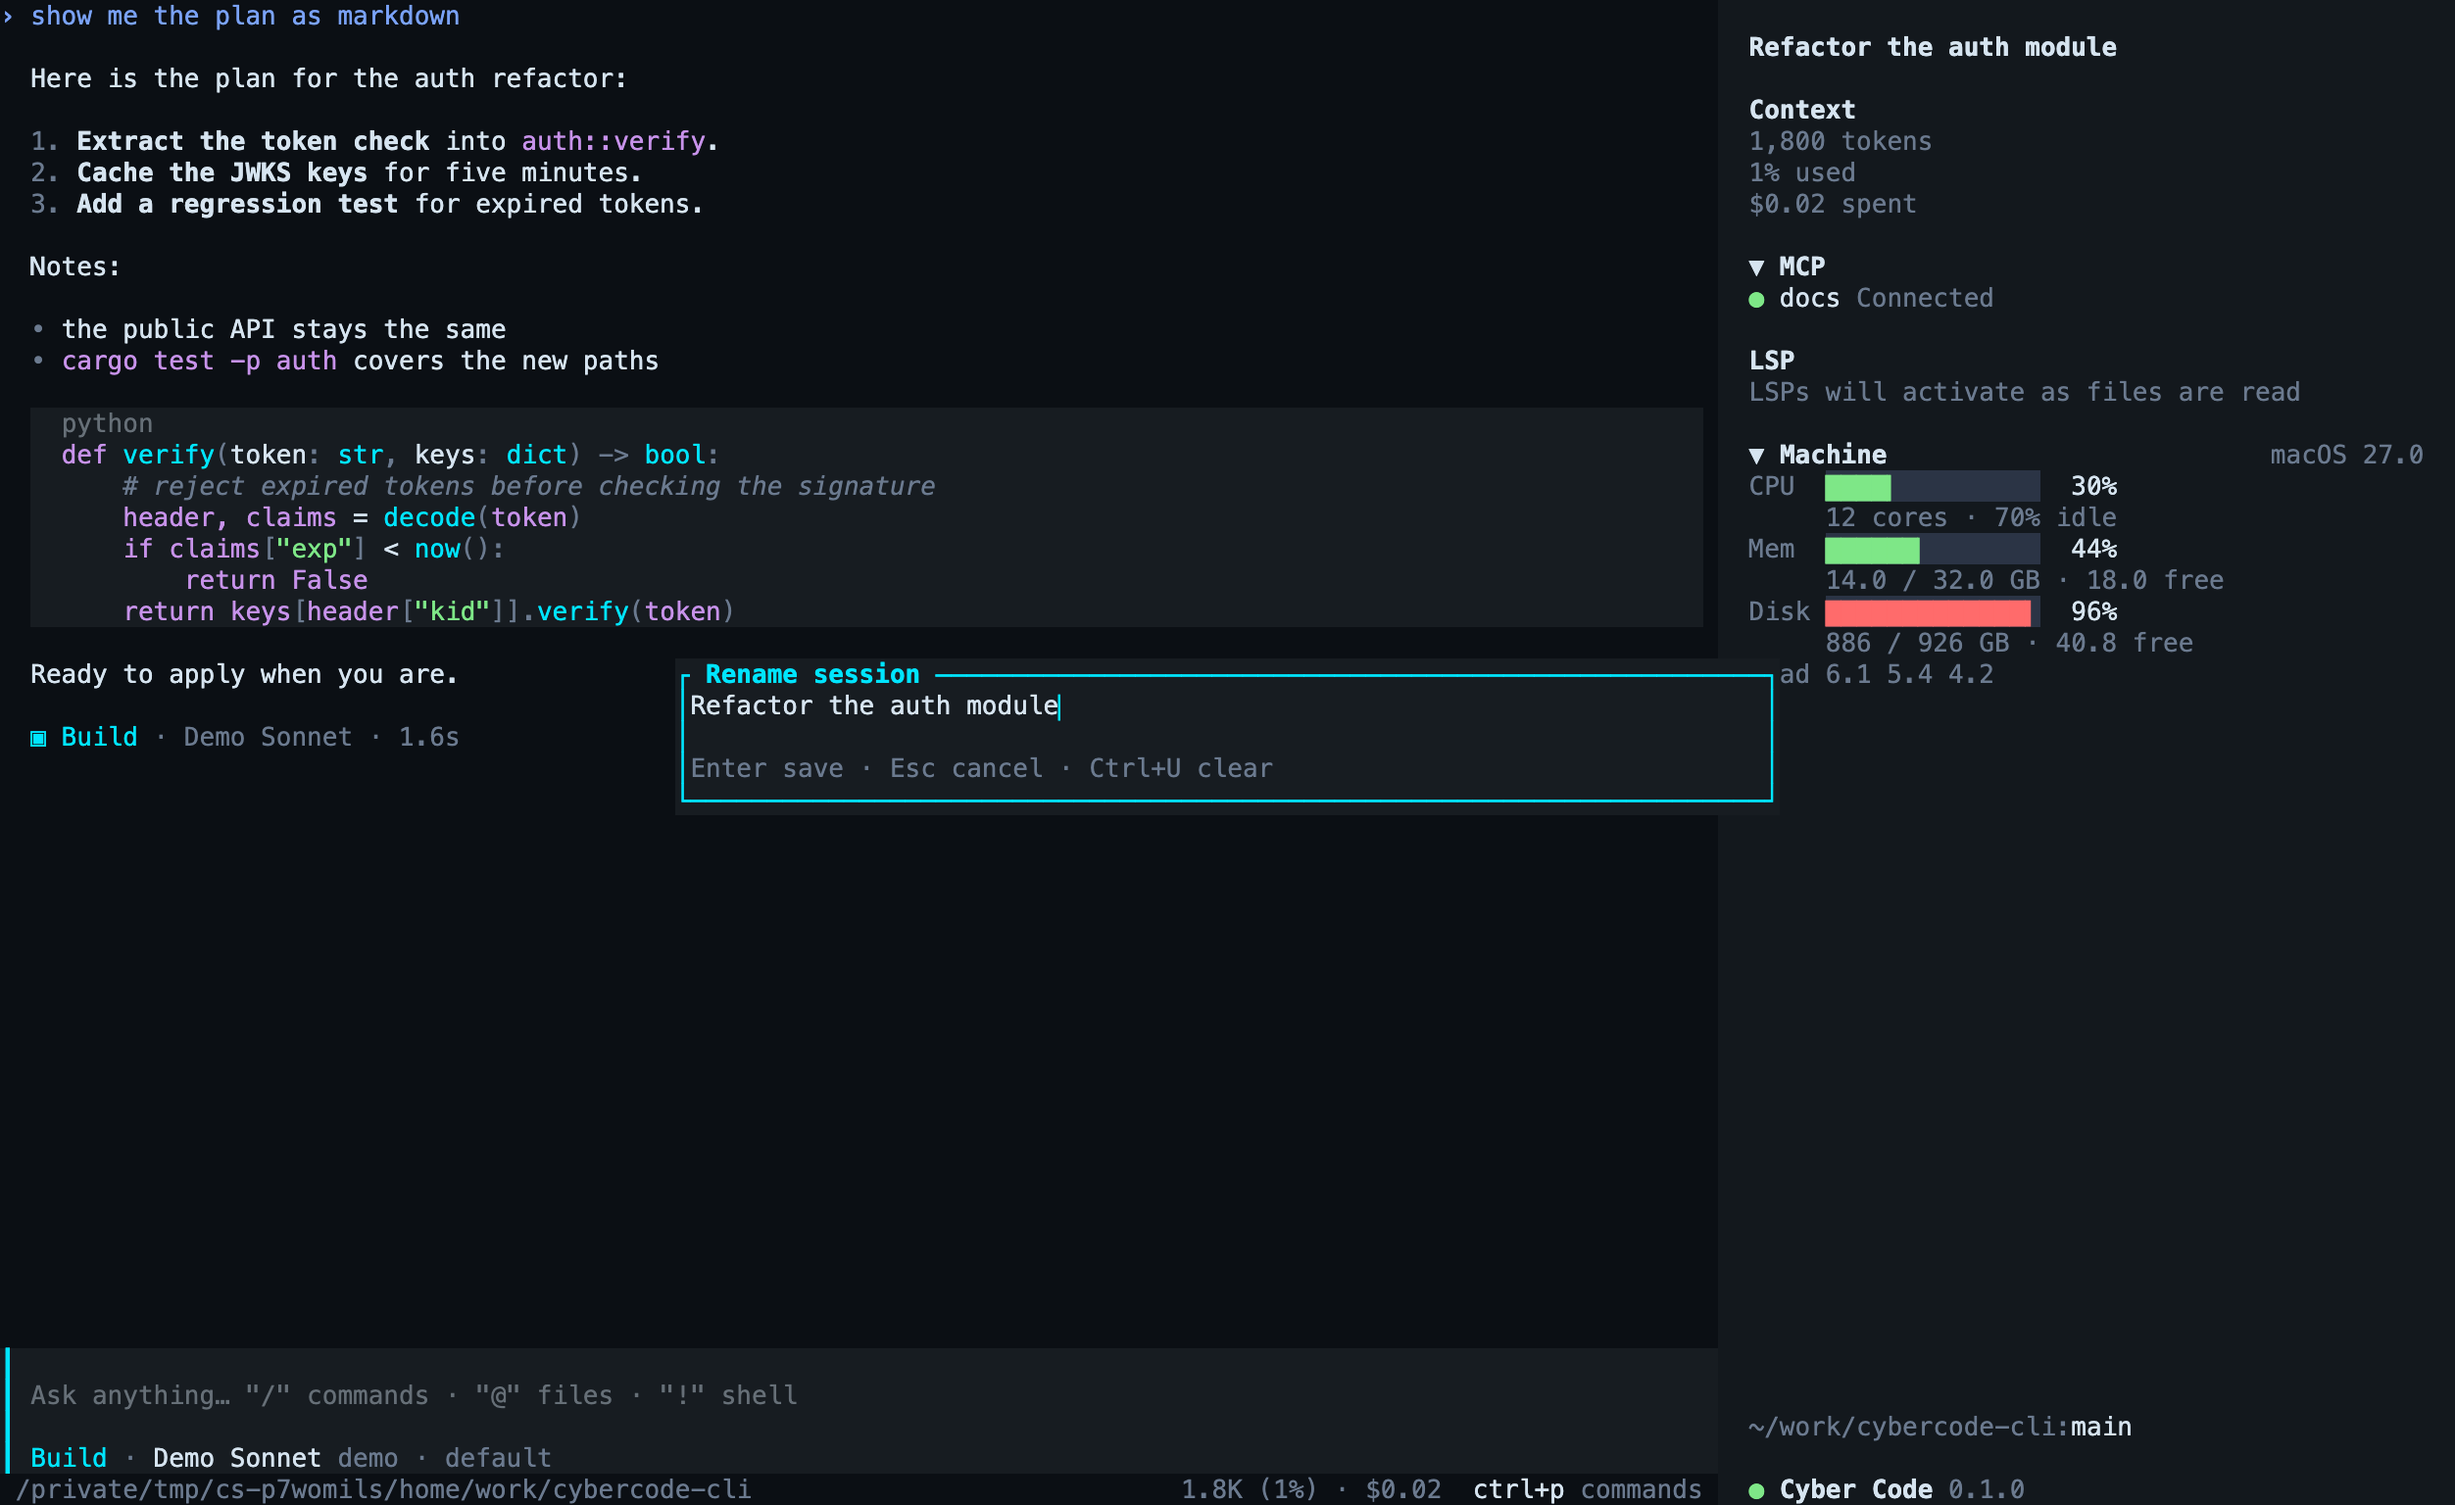
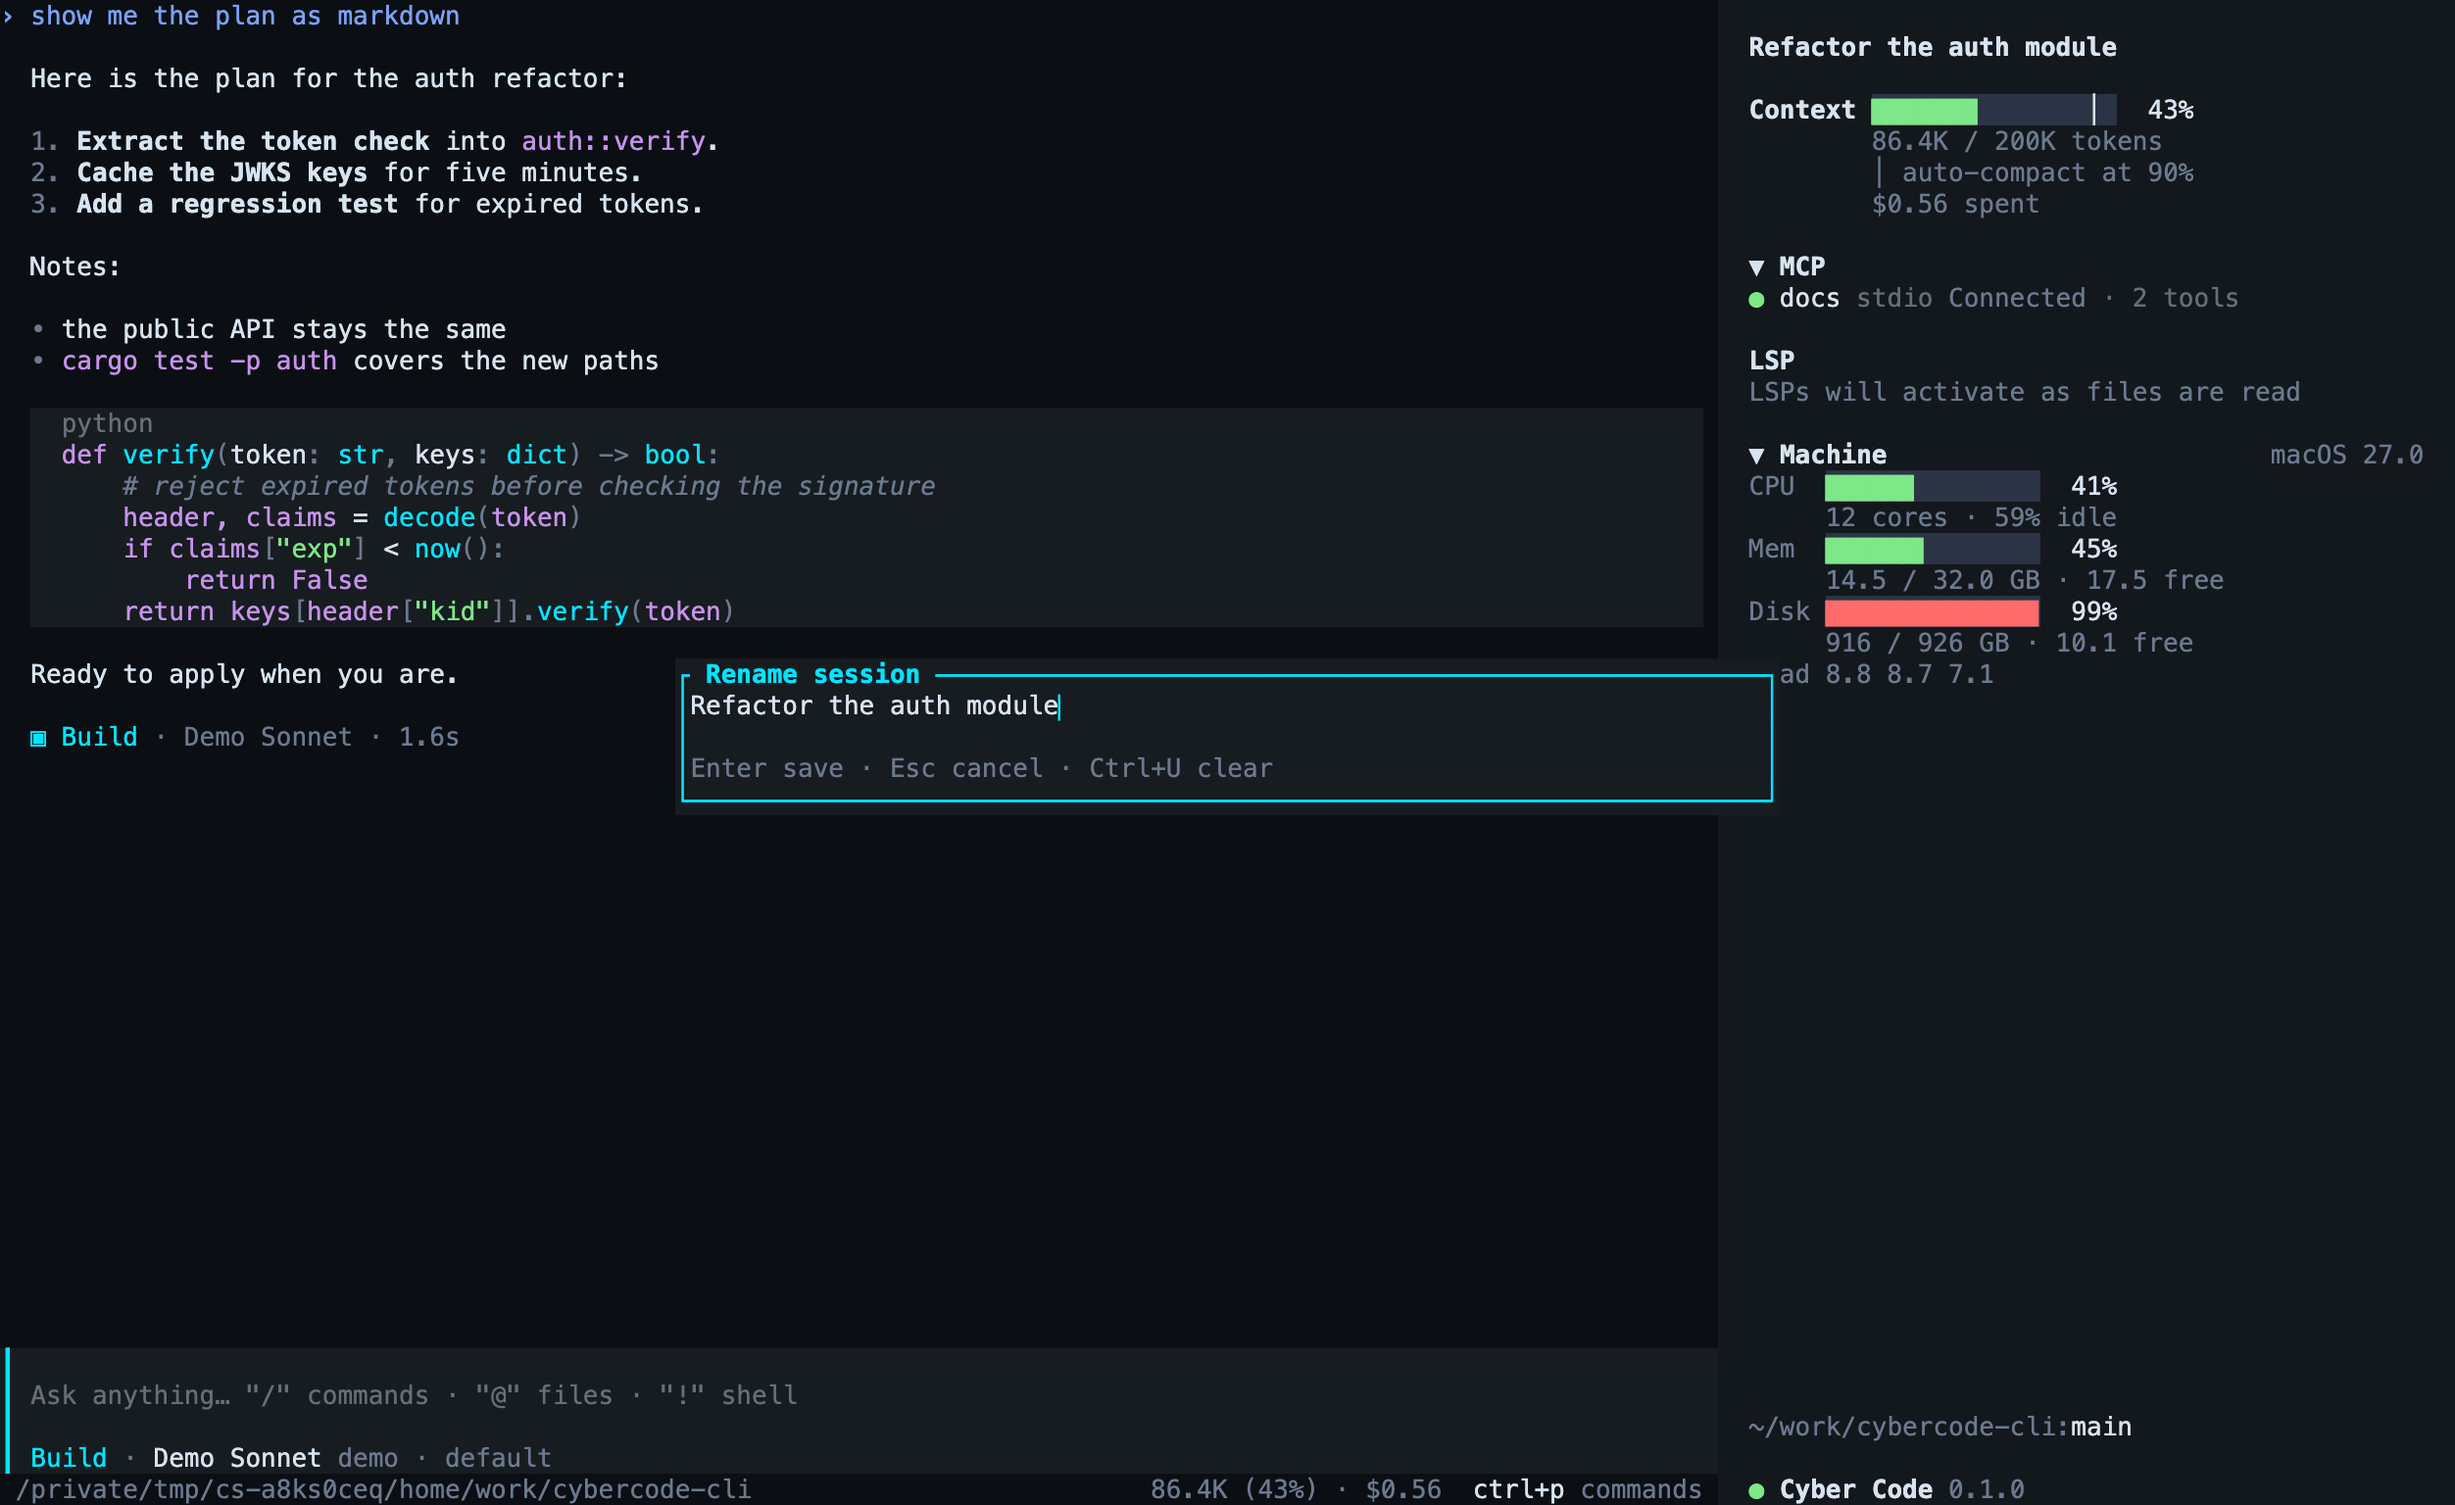
Refresh README screenshots with the sidebar context bar
The scripted provider now reports 86.4K prompt tokens per reply, so the
context bar shows a realistic 43% of the demo model's 200K window. The
capture script runs slash commands through a helper that presses enter
until the command leaves the composer, since the first enter can only
accept the completion.

diff --git a/scripts/capture_tui_screens.py b/scripts/capture_tui_screens.py
@@ -214,6 +214,17 @@ def wait(what, check, timeout=40, step=0.2, tui=None):
     raise TimeoutError(what)
 
 
+def command(tui, name, wait=1.2):
+    """Run a slash command. The first enter may only accept the completion, so press it until
+    the command leaves the composer."""
+    tui.type(name, 0.8)
+    for _ in range(3):
+        tui.key("enter", wait)
+        if name not in "\n".join(tui.text().splitlines()[-6:]):
+            return
+    raise TimeoutError(f"{name} did not run:\n{tui.text()}")
+
+
 def fanout(name, tag, n):
     return (f"export const meta = {{ name: '{name}', description: 'Fan out {n} agents', "
             f"phases: [{{ title: 'Fan out' }}, {{ title: 'Collect' }}] }};\n"
@@ -258,8 +269,8 @@ def capture(env):
     tui.pump(1.5)
     env.shot(tui, "transcript-sidebar.png")
 
-    tui.type("/rename")
-    tui.key("enter", 1.2)
+    command(tui, "/rename")
+    tui.wait_for("Rename session", 10)
     env.shot(tui, "rename.png")
     tui.key("esc", 0.8)
 
@@ -273,14 +284,12 @@ def capture(env):
     tui.wait_for("Result TURN", 20)
     tui.pump(1)
 
-    tui.type("/theme")
-    tui.key("enter", 1.2)
+    command(tui, "/theme")
     tui.type("synthwave", 1.5)
     env.shot(tui, "themes.png")
     tui.key("esc", 1.0)
 
-    tui.type("/files")
-    tui.key("enter", 2.0)
+    command(tui, "/files", 2.0)
     tui.wait_for("docs/", 20)
     lines = tui.text().splitlines()
     first = next(i for i, l in enumerate(lines) if "crates/" in l)
@@ -297,8 +306,7 @@ def capture(env):
     tui.key("esc", 0.8)
     tui.key("esc", 0.8)
 
-    tui.type("/settings")
-    tui.key("enter", 2.0)
+    command(tui, "/settings", 2.0)
     tui.key("3", 2.0)
     env.shot(tui, "usage.png")
     tui.key("4", 2.5)
@@ -316,8 +324,7 @@ def capture(env):
     for prefix in ("S-0", "A-0", "A-1"):
         env.ctl("/ctl/release", {"tag": prefix})
         tui.pump(0.8)
-    tui.type("/workflows")
-    tui.key("enter", 3.0)
+    command(tui, "/workflows", 3.0)
     env.shot(tui, "workflows-monitor.png")
     tui.key("esc", 1.0)
     env.ctl("/ctl/auto", {"on": True})

diff --git a/scripts/screens/provider.py b/scripts/screens/provider.py
@@ -128,7 +128,7 @@ class Handler(BaseHTTPRequestHandler):
         chunks = [{"choices": [{"index": 0, "delta": {"content": text[i:i + 40]}, "finish_reason": None}]}
                   for i in range(0, len(text), 40)]
         chunks.append({"choices": [{"index": 0, "delta": {}, "finish_reason": "stop"}],
-                       "usage": {"prompt_tokens": 1800, "completion_tokens": 240}})
+                       "usage": {"prompt_tokens": 86400, "completion_tokens": 1240}})
         data = ("".join(f"data: {json.dumps(c)}\n\n" for c in chunks) + "data: [DONE]\n\n").encode()
         time.sleep(1.6)  # a plausible streaming time for the Turn marker
         try:

diff --git a/README.md b/README.md
@@ -11,15 +11,15 @@ A model-independent, local-first coding agent: a durable server owns your sessio
 - **Recovery and confinement.** Shadow-git snapshots restore files without overwriting your own edits. Commands run in an OS sandbox on macOS and Linux (Windows is incomplete).
 - **Open contracts.** Behavior is specified as [OpenSpec requirements](openspec/specs) tagged by phase and validated in CI, and implementation evidence is published ([P1](docs/implementation/p1-status.md), [P2](docs/implementation/p2-status.md)).
 - **Many agents, one server.** Subagents run as real child Sessions (in the background or in their own worktree), workflows fan out dozens of agents with fair scheduling across runs, and every agent's transcript stays inspectable. Agent teams and agent-to-agent messaging are not built yet.
-- **A full terminal UI.** 18 themes with a live switcher, Markdown with highlighted code, a responsive sidebar with machine stats (CPU, memory, disk), the `Ctrl+P` palette, a file explorer, a workflows monitor, Usage/Stats tabs (also as `cyber stats`), and `/rename` to name a Session and resume it later by title.
+- **A full terminal UI.** 18 themes with a live switcher, Markdown with highlighted code, a responsive sidebar with a context-window bar (tokens used, auto-compact point, cost), the MCP servers and machine stats (CPU, memory, disk), the `Ctrl+P` palette, a file explorer, a workflows monitor, Usage/Stats tabs (also as `cyber stats`), and `/rename` to name a Session and resume it later by title.
 
 ## Screenshots
 
 Real captures of the TUI in a 160×48 pseudo-terminal against a scripted local model (not live inference); the Machine bars are live readings of the capturing machine. Regenerate them with `just screenshots` ([how](docs/screenshots/README.md)).
 
-| Welcome screen with the Machine sidebar | Transcript: Markdown, highlighted code, turn marker |
+| Welcome screen with the sidebar | Transcript: Markdown, highlighted code, turn marker |
 |---|---|
-| ![Welcome screen with the ASCII logo, session details, tips and the sidebar with Context, MCP, LSP and Machine stats](docs/screenshots/welcome.png) | ![Rendered Markdown and a highlighted Python block next to the sidebar](docs/screenshots/transcript-sidebar.png) |
+| ![Welcome screen with the ASCII logo, session details, tips and the sidebar with Context, MCP, LSP and Machine stats](docs/screenshots/welcome.png) | ![Rendered Markdown and a highlighted Python block next to the sidebar, with the context bar at 43% of a 200K window](docs/screenshots/transcript-sidebar.png) |
 | **Thinking: the Nyan progress indicator** | **`/workflows`: three runs and one queued** |
 | ![Animated Nyan comet trail with Thinking, elapsed time and the interrupt hint](docs/screenshots/thinking.gif) | ![Workflows monitor with three running runs, one queued run and per-run progress](docs/screenshots/workflows-monitor.png) |
 | **File explorer with a rendered Markdown preview** | **`/theme` switcher with live preview** |
@@ -139,7 +139,7 @@ Use `--model provider/model` to select a model. Remote MCP servers that need OAu
 | Hooks | Command, HTTP, prompt and MCP-tool handlers; managed-only org policy | Plugin hooks pending |
 | Skills | Bundled `/review`, `/batch`, `/simplify`, `/security-review`, `/customize-cyber`; remote sources; `cyber review` | Plugin skills pending |
 | Instructions | `CYBER.md`, `AGENTS.md`, `CLAUDE.md`, `CONTEXT.md`; confined `@path` imports | [Guide](docs/local-core-guide.md#project-instructions-and-cybermd) |
-| TUI | Themes, Markdown, sidebar with machine stats, palette, explorer, Settings/Usage/Stats, recaps, `/rename` | Some Settings extras pending |
+| TUI | Themes, Markdown, sidebar with context bar, MCP and machine stats, palette, explorer, Settings/Usage/Stats, recaps, `/rename` | Some Settings extras pending |
 | Clients | TUI, `exec`, background service (an idle server from an older build is replaced automatically), HTTP/SSE/WebSocket/stdio API, TypeScript SDK | [SDK](sdk/typescript/README.md) |
 | Partial P1 | Subagents/worktrees, cancellation, budgets, memory, LSP, formatting, migration previews | [P1 status](docs/implementation/p1-status.md) |
 

diff --git a/docs/screenshots/README.md b/docs/screenshots/README.md
@@ -6,6 +6,7 @@ The model is a **scripted local OpenAI-compatible provider** (`scripts/screens/p
 
 Two things are not scripted:
 
+- **Context bar** in the sidebar: the scripted model reports 86.4K prompt tokens per reply against the demo model's 200K window, so the bar sits at 43% with the auto-compact marker at 90%.
 - **Machine stats** in the sidebar (CPU, memory, disk, load) are live readings of the machine that took the captures.
 - **Stats history** (the heatmap, streaks and totals) is seeded fixture usage for earlier days, written into the temporary database before the TUI starts. Today's usage comes from the scripted Turns.
 
@@ -24,7 +25,7 @@ PY=/tmp/cyber-shots/bin/python just screenshots
 | File | Screen |
 |---|---|
 | [`welcome.png`](welcome.png) | Welcome screen: the ASCII logo, session details, tips, and the docked sidebar with Context, MCP, LSP and Machine |
-| [`transcript-sidebar.png`](transcript-sidebar.png) | A finished Turn: rendered Markdown, a highlighted Python block and the `▣ Build · model · duration` marker |
+| [`transcript-sidebar.png`](transcript-sidebar.png) | A finished Turn: rendered Markdown, a highlighted Python block, the `▣ Build · model · duration` marker and the sidebar context bar |
 | [`thinking.png`](thinking.png), [`thinking.gif`](thinking.gif) | A Turn in progress with the Nyan comet trail, `Thinking`, the elapsed time and the interrupt hint (the GIF is 24 consecutive captures) |
 | [`rename.png`](rename.png) | The `/rename` dialog, prefilled with the Session's current title |
 | [`themes.png`](themes.png) | The `/theme` switcher previewing `synthwave-84` |
